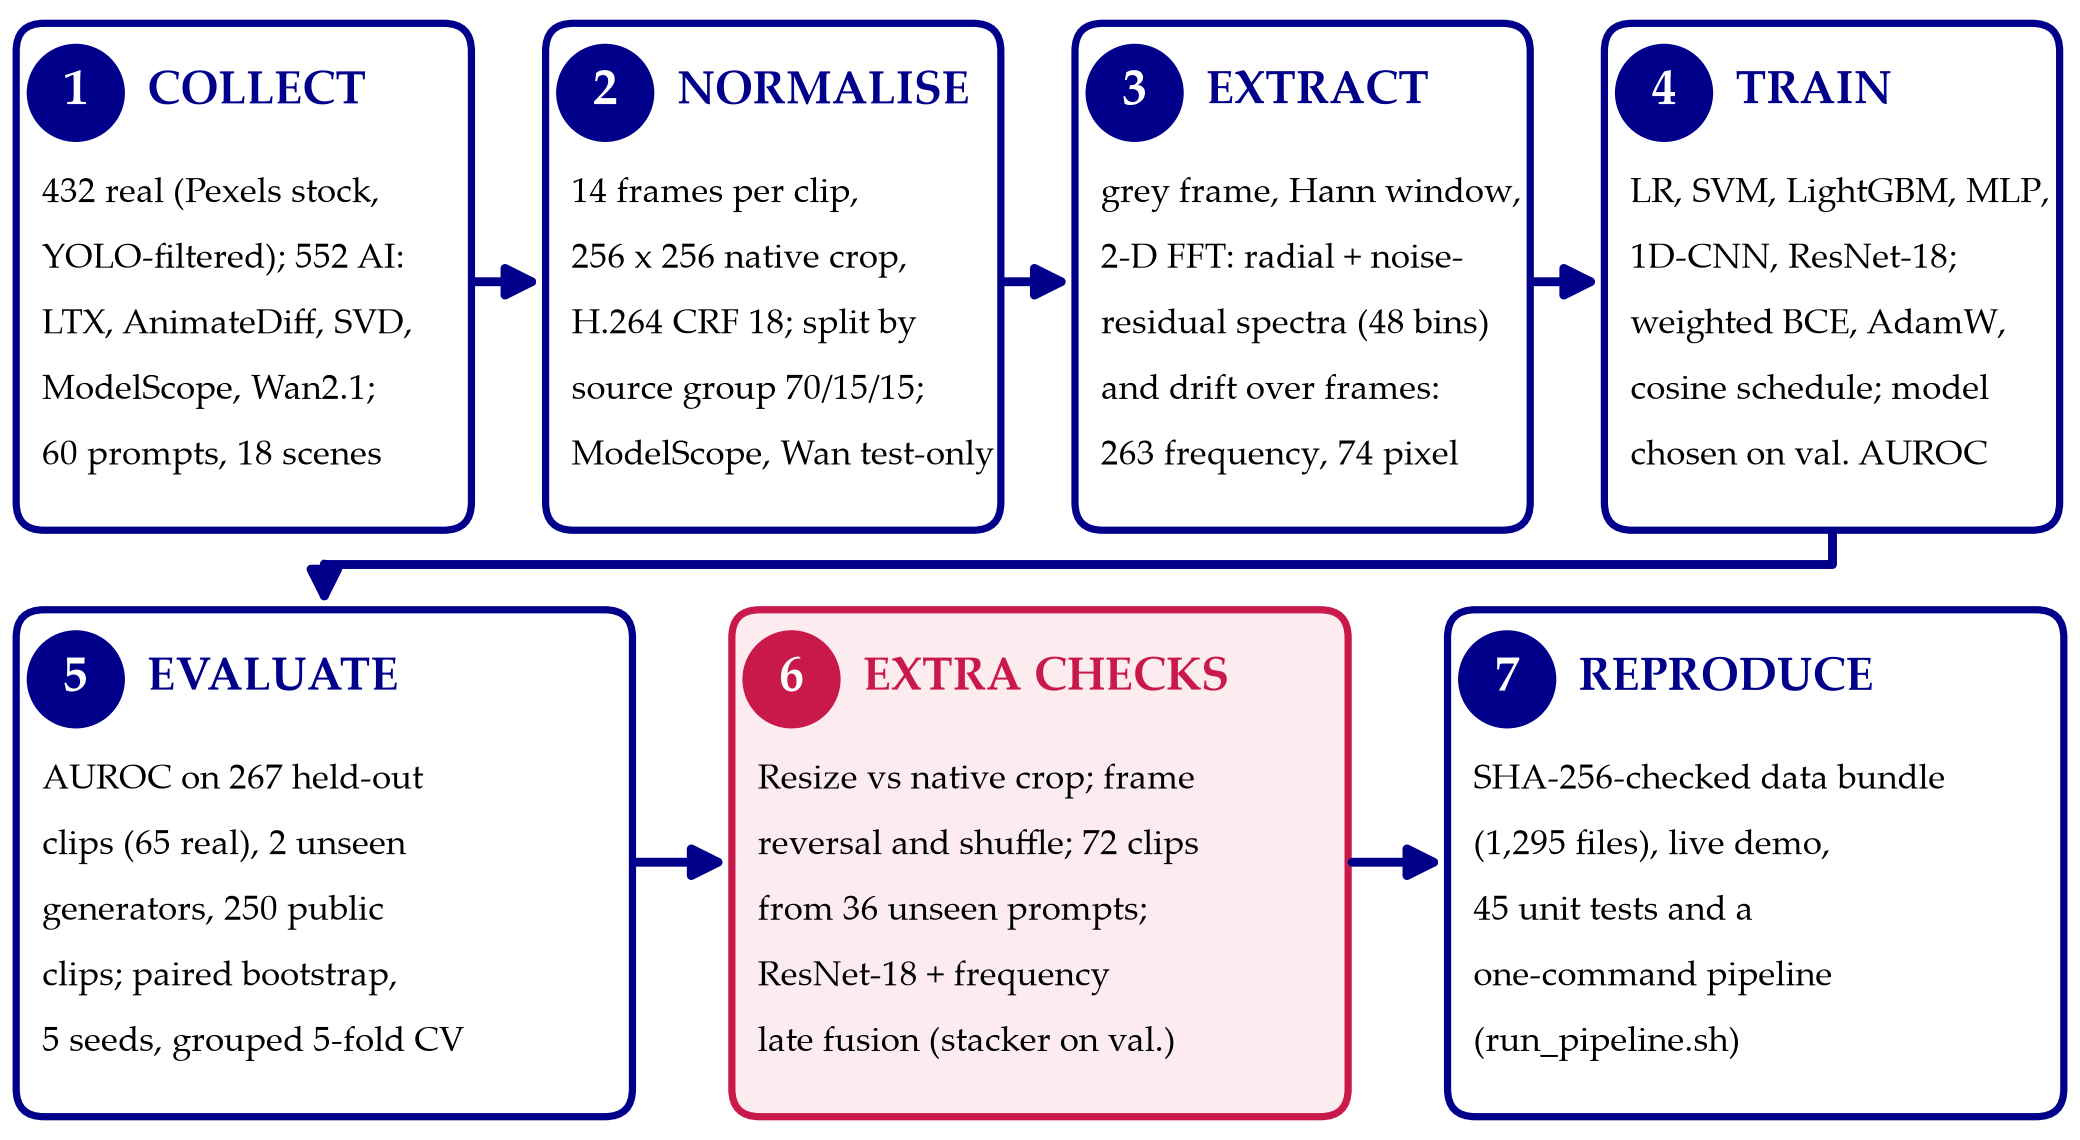
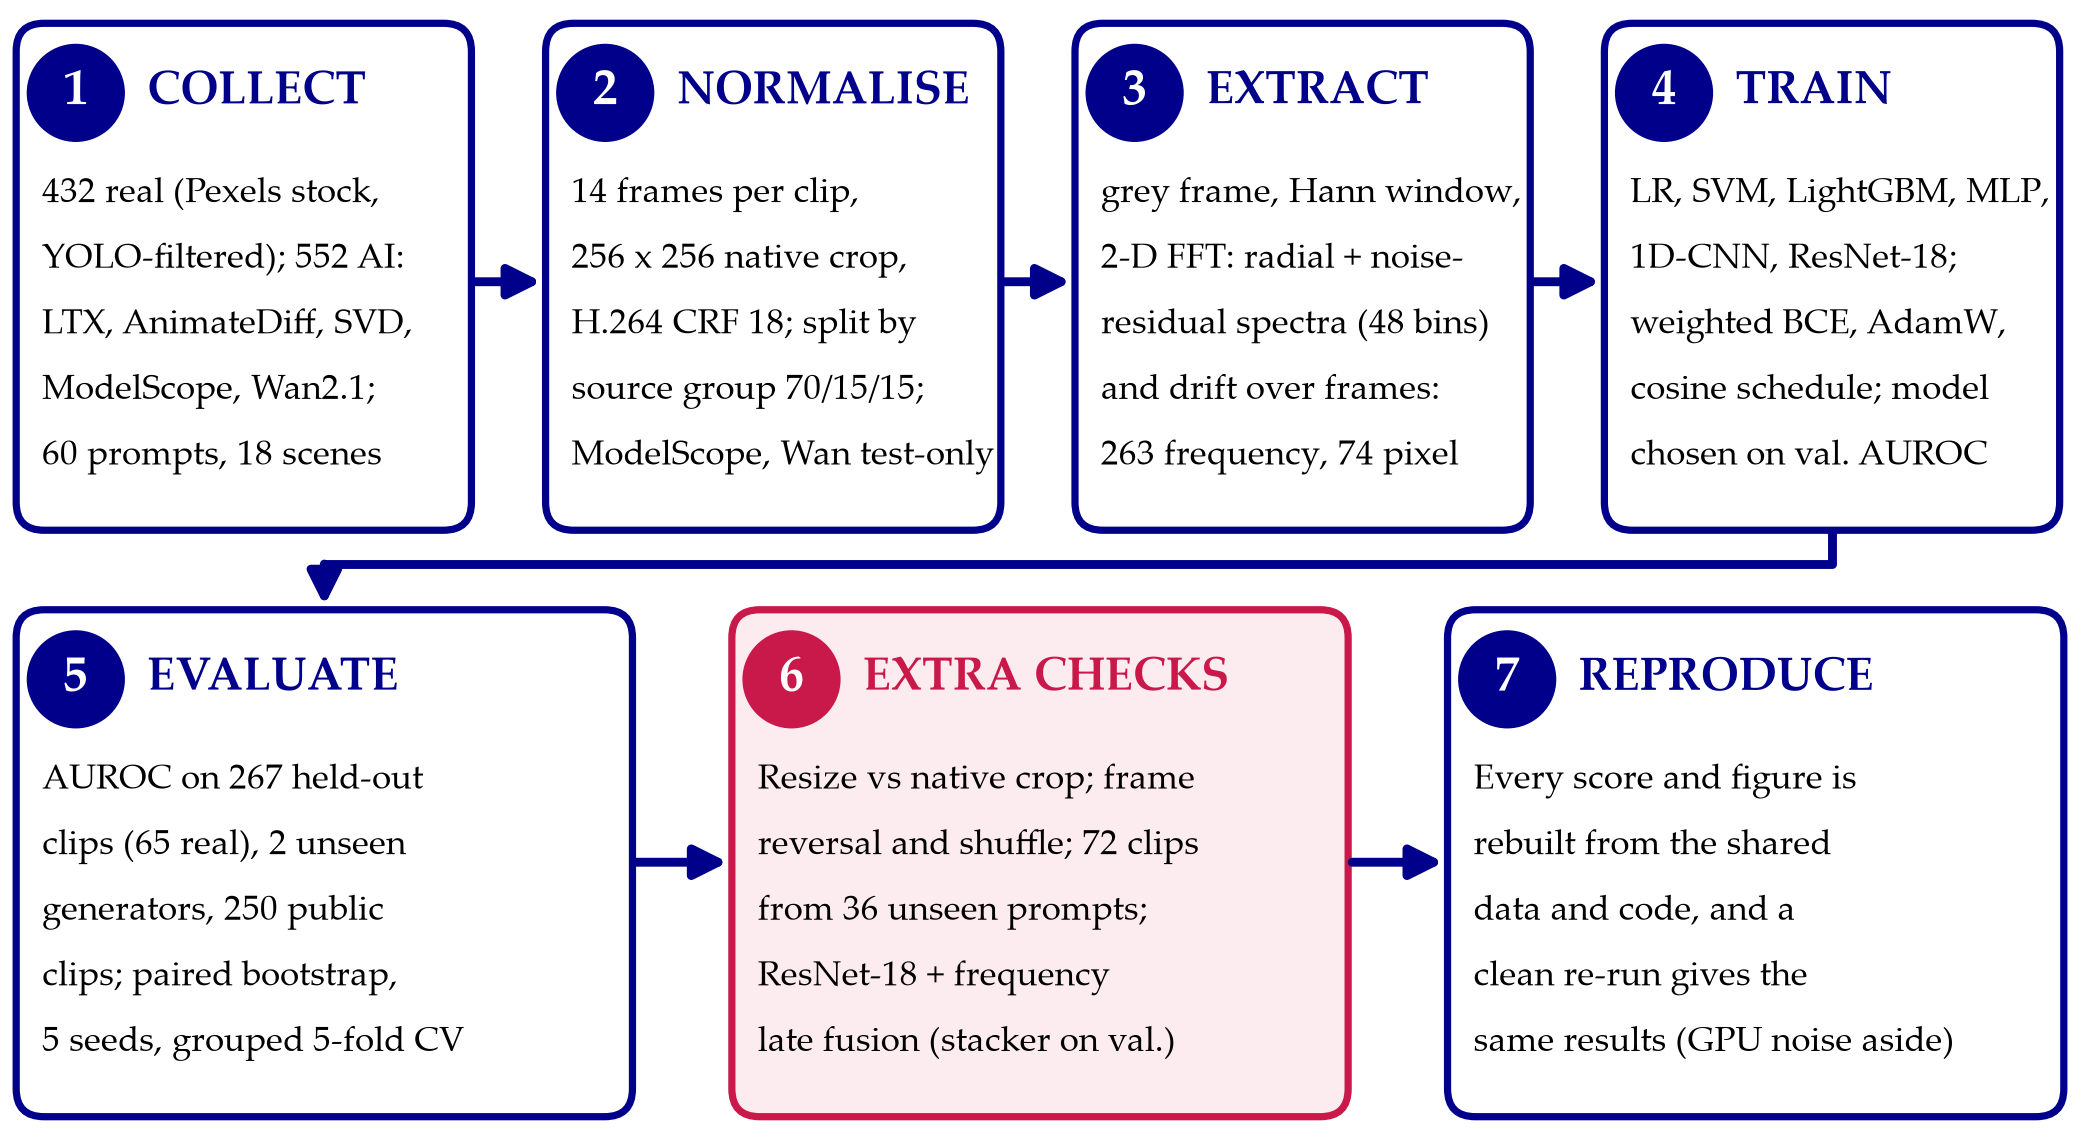
Poster workflow: REPRODUCE step described by outcome, not code or files

Changed region(s): [[0.7188, 0.6754, 0.9375, 0.9211]]

diff --git a/poster/poster.html b/poster/poster.html
@@ -107,7 +107,7 @@ features on identical held-out clips. Frequency cues win on trained generators (
 <p style="font-size:15pt;margin-bottom:2mm"><b>How to read it.</b> A 2-D FFT turns a frame into a map of how much energy it has at each spatial frequency: the centre is coarse structure (big shapes), the edges are fine detail (texture, noise). Averaging 40 clips and subtracting the real average leaves a generator&rsquo;s fingerprint: <span style="color:#1f5fa8"><b>blue</b></span> = less energy than camera video at that frequency, <span style="color:#b2182b"><b>red</b></span> = more. The generators differ from real, and from each other (LTX-Video shows a regular dot grid, a periodic artefact that is plausibly from up-sampling). That makes the spectrum a usable signal, and explains why a detector trained on some generators carries over only partly to others.</p>
 
 <h2>Workflow</h2>
-<p>Figure 2 shows the seven steps, from collecting clips to sharing the code.</p>
+<p>Figure 2 shows the seven steps, from collecting clips to a reproducible result.</p>
 <figure>
 <img src="figs/fig_workflow.png" style="width:230mm">
 <figcaption><b>Figure 2:</b> Overall workflow. Step 6 (red) is the novelty assessment.</figcaption>

diff --git a/tools/poster_diagrams.py b/tools/poster_diagrams.py
@@ -54,7 +54,7 @@ def workflow():
         ("4", "TRAIN", ["LR, SVM, LightGBM, MLP,", "1D-CNN, ResNet-18;", "weighted BCE, AdamW,", "cosine schedule; model", "chosen on val. AUROC"]),
         ("5", "EVALUATE", ["AUROC on 267 held-out", "clips (65 real), 2 unseen", "generators, 250 public", "clips; paired bootstrap,", "5 seeds, grouped 5-fold CV"]),
         ("6", "EXTRA CHECKS", ["Resize vs native crop; frame", "reversal and shuffle; 72 clips", "from 36 unseen prompts;", "ResNet-18 + frequency", "late fusion (stacker on val.)"]),
-        ("7", "REPRODUCE", ["SHA-256-checked data bundle", "(1,295 files), live demo,", "45 unit tests and a", "one-command pipeline", "(run_pipeline.sh)"]),
+        ("7", "REPRODUCE", ["Every score and figure is", "rebuilt from the shared", "data and code, and a", "clean re-run gives the", "same results (GPU noise aside)"]),
     ]
     w1, g1 = 22.9, 3.73
     w2, g2 = 31.0, 5.0
